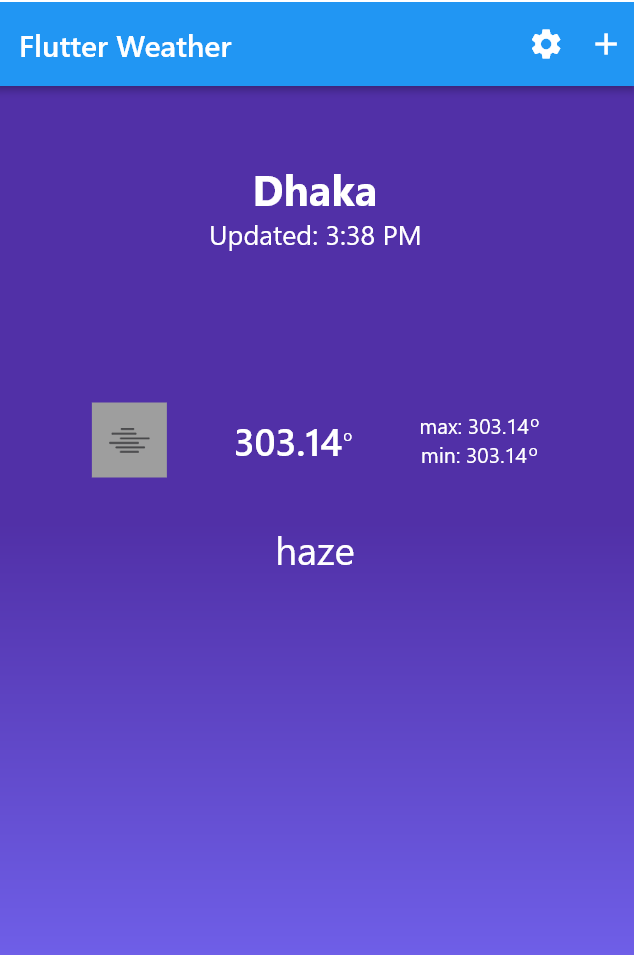
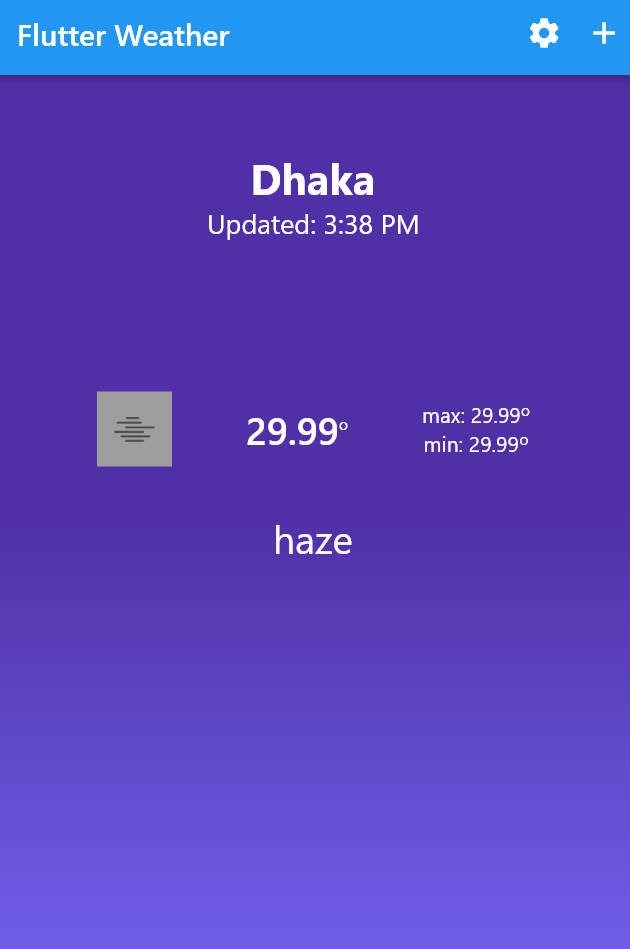
units to metric changed

diff --git a/lib/home_screen.dart b/lib/home_screen.dart
@@ -30,7 +30,7 @@ class _HomeScreenState extends State<HomeScreen> {
 
   void getWeatherData() async {
     var url =
-        'https://api.openweathermap.org/data/2.5/weather?q=dhaka&appid=2890507c01a5d0b66f6e9faa24f773c4';
+        'https://api.openweathermap.org/data/2.5/weather?q=dhaka&appid=2890507c01a5d0b66f6e9faa24f773c4&units=metric';
     Response response = await get(Uri.parse(url));
     if (response.statusCode == 200) {
       isLoading = true;
